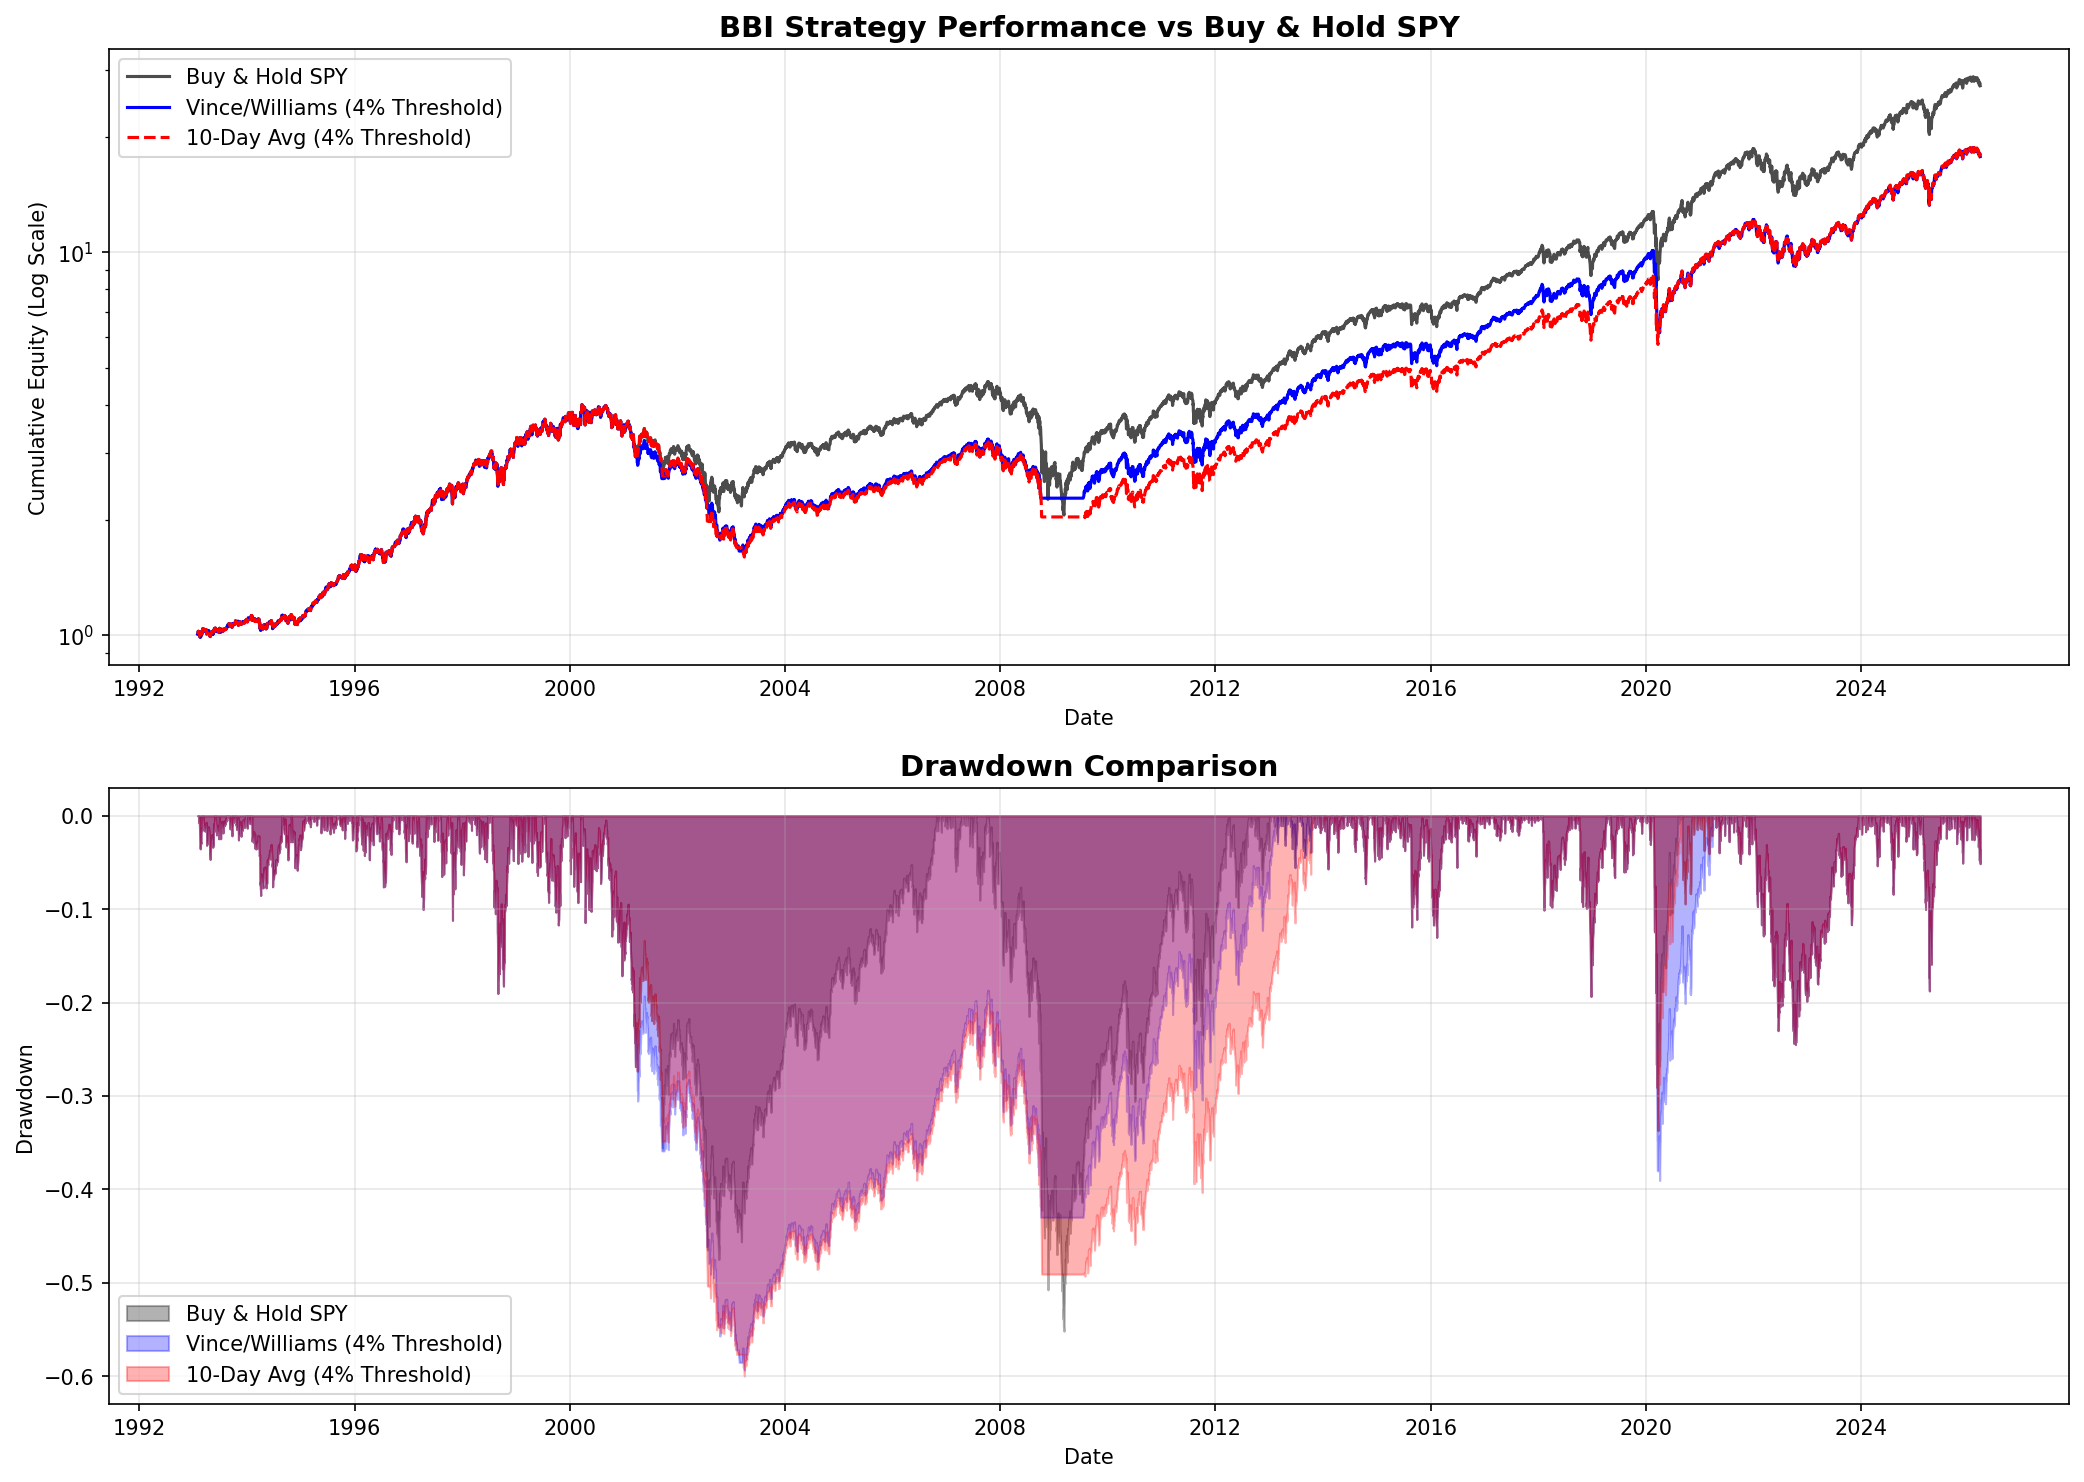
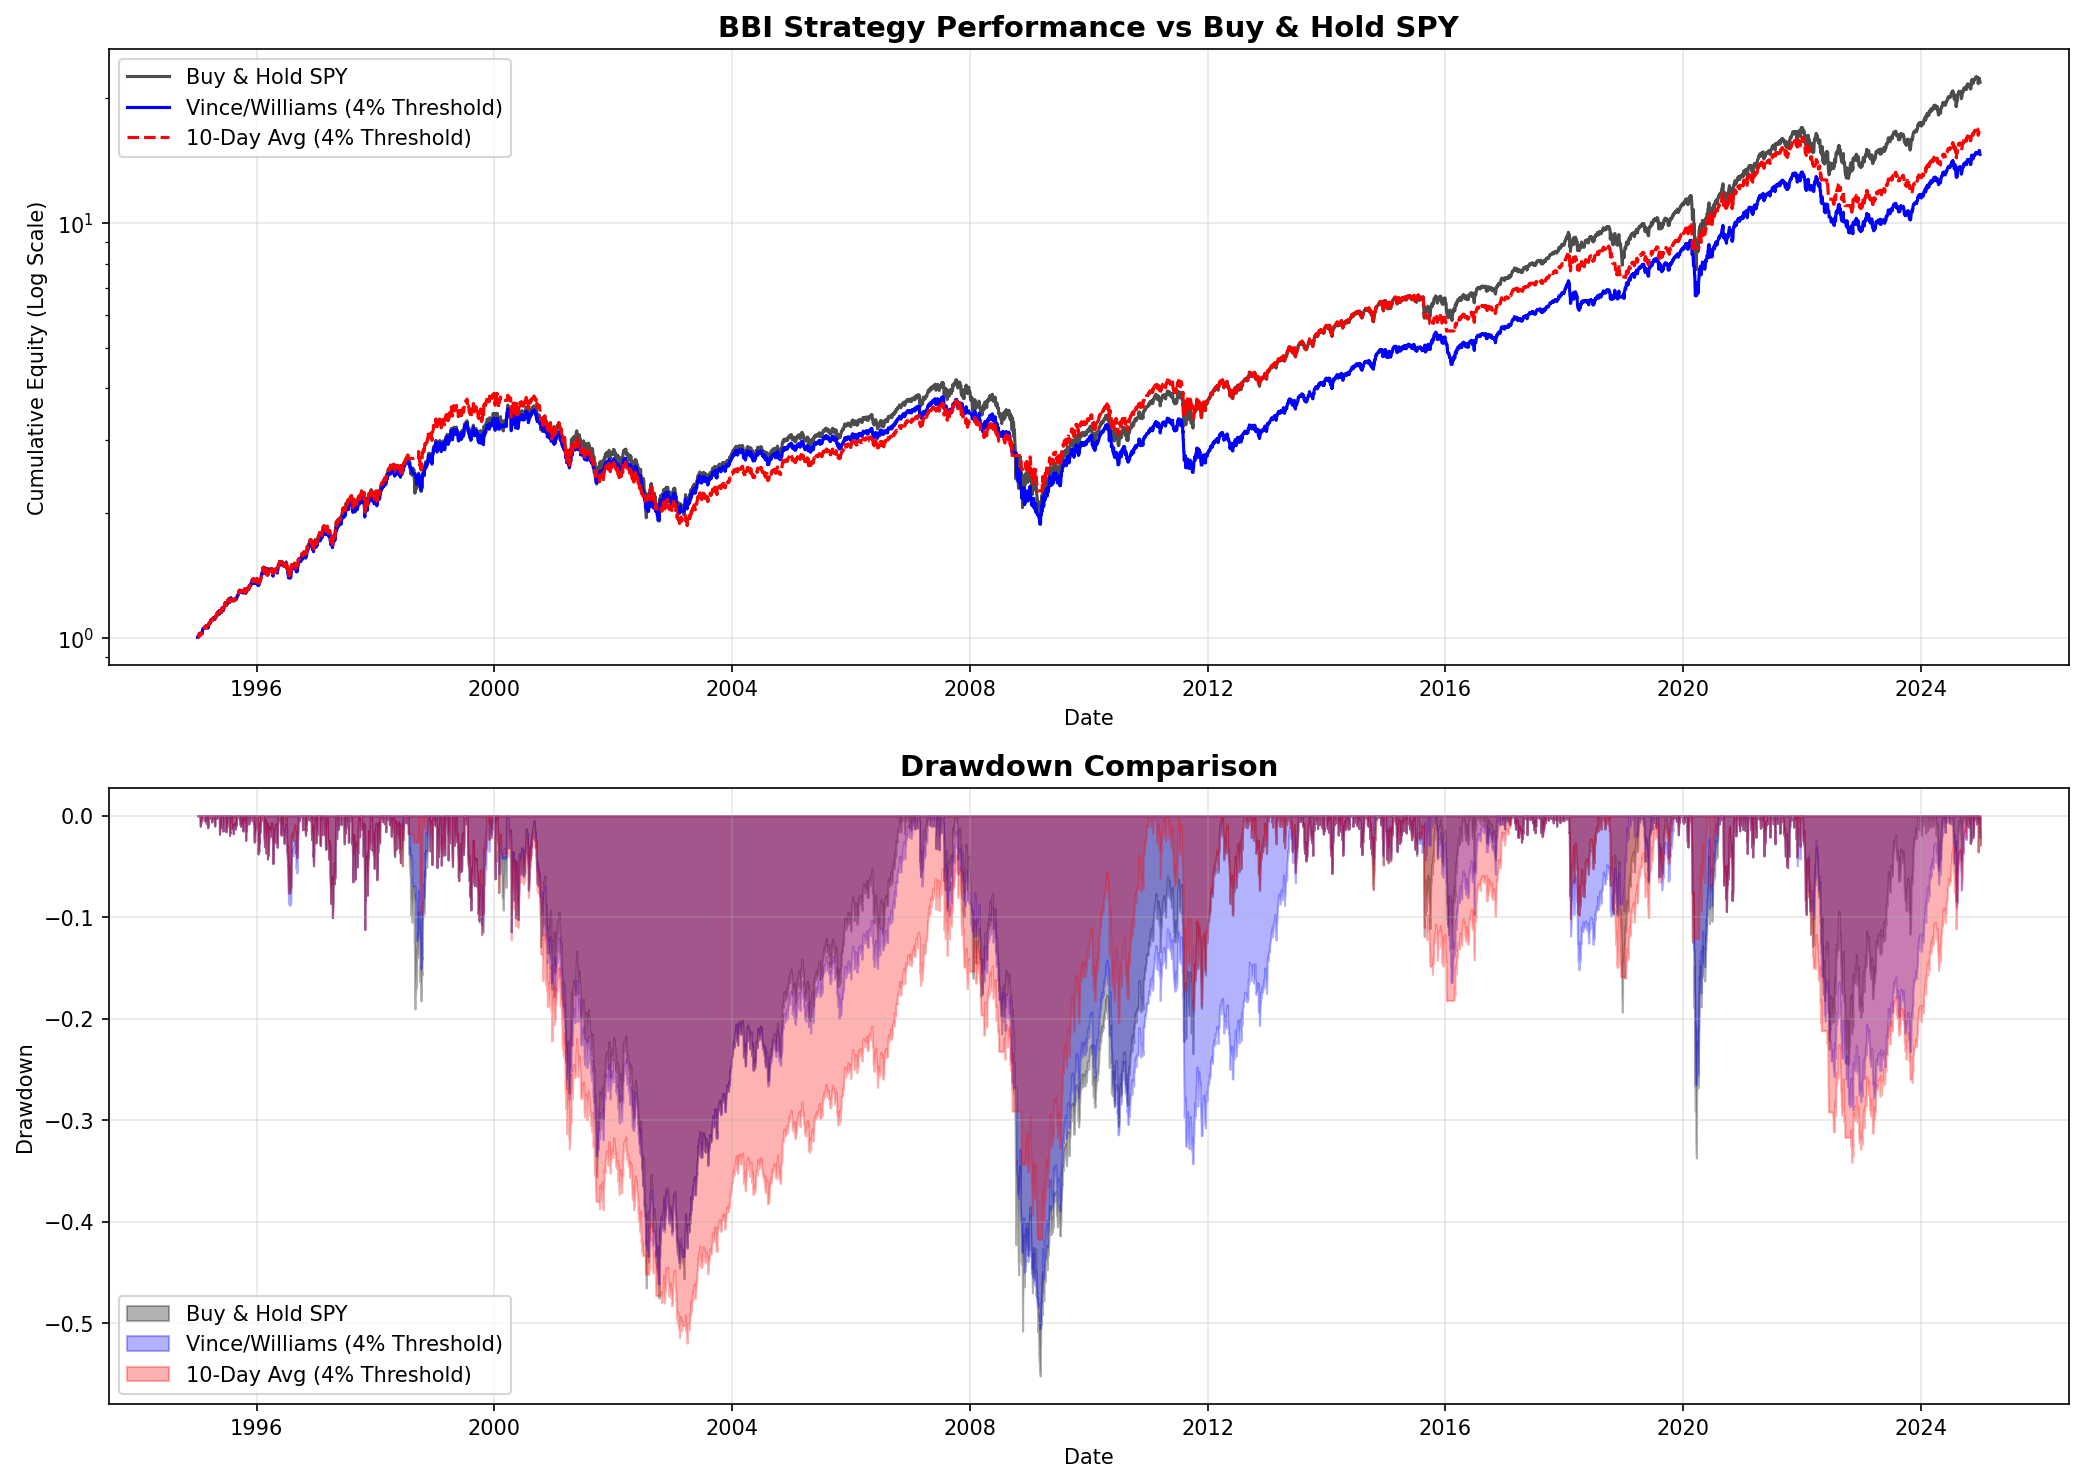
Update BBI strategy with actual NYSE new lows calculation

diff --git a/bbi_strategy.py b/bbi_strategy.py
@@ -5,110 +5,108 @@ Based on the Vince/Williams "bloodbath sidestepping" rule from:
 
 And variation from Mark Ungewitter's tweet:
 https://x.com/mark_ungewitter/status/2030687520527130718
+
+This version calculates NYSE New Lows from actual stock data.
 """
 
 import yfinance as yf
 import pandas as pd
 import numpy as np
 import matplotlib.pyplot as plt
-from datetime import datetime, timedelta
+from datetime import datetime
 import warnings
 warnings.filterwarnings('ignore')
 
 # ============================================================
-# DATA DOWNLOAD FUNCTIONS
+# REPRESENTATIVE NYSE STOCKS SAMPLE
 # ============================================================
 
-def download_spy_data(start_date: str = '1990-01-01', end_date: str = None) -> pd.DataFrame:
-    """Download SPY adjusted close prices."""
+# A diversified sample of large-cap NYSE stocks to calculate new lows
+NYSE_SAMPLE = [
+    'AAPL', 'MSFT', 'AMZN', 'GOOGL', 'GOOG', 'NVDA', 'META', 'TSLA', 'BRK.B', 'UNH',
+    'JNJ', 'V', 'XOM', 'JPM', 'PG', 'MA', 'HD', 'CVX', 'LLY', 'ABBV',
+    'MRK', 'PEP', 'KO', 'COST', 'AVGO', 'TMO', 'WMT', 'MCD', 'CSCO', 'ACN',
+    'ABT', 'DHR', 'NEE', 'ADBE', 'NKE', 'TXN', 'PM', 'MS', 'UPS', 'RTX',
+    'LOW', 'HON', 'INTC', 'ORCL', 'IBM', 'SBUX', 'CAT', 'BA', 'GE', 'AMD',
+    'QCOM', 'GS', 'BLK', 'C', 'DE', 'INTU', 'AMAT', 'MDLZ', 'GILD', 'ADP',
+    'BKNG', 'ISRG', 'AXP', 'SYK', 'TJX', 'MMM', 'NOW', 'ZTS', 'REGN', 'VRTX',
+    'ADI', 'LRCX', 'MU', 'MMC', 'CB', 'CI', 'CME', 'SPGI', 'MO', 'NOC',
+    'DUK', 'PLD', 'SO', 'PNC', 'ETN', 'BSX', 'ITW', 'APD', 'ICE', 'EMR',
+    'SHW', 'NSC', 'MCK', 'EOG', 'SLB', 'USB', 'TGT', 'MCO', 'CL', 'FIS'
+]
+
+# ============================================================
+# DATA DOWNLOAD AND NYSE NEW LOWS CALCULATION
+# ============================================================
+
+def download_stock_data(tickers, start_date='1990-01-01', end_date=None):
+    """Download adjusted close prices for a list of tickers."""
     if end_date is None:
         end_date = datetime.now().strftime('%Y-%m-%d')
     
-    spy = yf.download('SPY', start=start_date, end=end_date, progress=False)
+    print(f"Downloading data for {len(tickers)} stocks...")
+    data = yf.download(tickers, start=start_date, end=end_date, progress=True, auto_adjust=True)
     
-    # Handle both old and new yfinance column formats
-    if 'Adj Close' in spy.columns:
-        spy = spy[['Adj Close']].copy()
-        spy.columns = ['close']
-    elif 'Close' in spy.columns:
-        spy = spy[['Close']].copy()
-        spy.columns = ['close']
+    # Extract close prices
+    if 'Close' in data.columns.get_level_values(0):
+        close = data['Close']
     else:
-        spy = spy[['Close']].copy()
-        spy.columns = ['close']
+        close = data
     
+    return close
+
+def calculate_nyse_new_lows_pct(price_data: pd.DataFrame, lookback: int = 252) -> pd.DataFrame:
+    """
+    Calculate the percentage of stocks hitting new 52-week lows.
+    
+    For each day, calculate what % of stocks are at their 52-week low.
+    """
+    print("Calculating NYSE new lows percentage...")
+    
+    # Calculate rolling minimum (52-week low) for each stock
+    rolling_min = price_data.rolling(window=lookback, min_periods=lookback//2).min()
+    
+    # Determine if each stock is at its 52-week low
+    at_new_low = (price_data <= rolling_min)
+    
+    # Calculate percentage of stocks at new lows
+    new_lows_pct = at_new_low.mean(axis=1) * 100
+    
+    return new_lows_pct
+
+def get_market_data_with_new_lows(start_date='1995-01-01'):
+    """
+    Get SPY data and calculate NYSE new lows from stock sample.
+    """
+    # Download SPY for returns
+    print("Downloading SPY data...")
+    spy = yf.download('SPY', start=start_date, end='2024-12-31', progress=False)
+    
+    # Handle different yfinance return formats
+    if isinstance(spy.columns, pd.MultiIndex):
+        spy_close = spy['Close']['SPY']
+    else:
+        spy_close = spy['Close']
+    
+    # Ensure it's a series with proper index
+    spy = pd.DataFrame({'close': spy_close})
     spy['returns'] = spy['close'].pct_change()
-    return spy
-
-def download_nyse_new_lows_data(start_date: str = '1990-01-01', end_date: str = None) -> pd.DataFrame:
-    """
-    Download NYSE New Lows data from FRED.
-    NYSE new lows represent the number of stocks hitting their 52-week lows.
-    """
-    if end_date is None:
-        end_date = datetime.now().strftime('%Y-%m-%d')
     
-    # Download NYSE new lows from FRED
-    # The series represents number of stocks hitting new 52-week lows
-    try:
-        # Try NYSE NLCS (New Lows) - if not available, use alternative
-        nyse_nl = yf.download('NYNPC', start=start_date, end=end_date, progress=False)
-        
-        # Also try NYSE total issues for calculating percentage
-        # Using index data as proxy - we'll estimate based on typical NYSE ~3000 stocks
-        nyse_nl = nyse_nl[['Close']].copy()
-        nyse_nl.columns = ['new_lows']
-        
-        # Estimate total NYSE issues (typically around 3000)
-        nyse_nl['total_issues'] = 3000
-        nyse_nl['new_lows_pct'] = nyse_nl['new_lows'] / nyse_nl['total_issues'] * 100
-        
-        return nyse_nl
-    except Exception as e:
-        print(f"Error downloading NYSE data: {e}")
-        # Create synthetic data for demonstration if needed
-        return None
-
-def get_market_data(start_date: str = '1990-01-01') -> pd.DataFrame:
-    """
-    Get combined SPY and NYSE new lows data.
-    Uses multiple data sources to construct the indicator.
-    """
-    # Download SPY
-    spy = download_spy_data(start_date)
+    # Download stock sample for new lows calculation
+    stock_prices = download_stock_data(NYSE_SAMPLE, start_date=start_date)
     
-    # Try to get NYSE New Lows data from FRED
-    try:
-        # NYSE New Lows Percent - using FRED data
-        nyse_nl_pct = yf.download('NYSEENL', start=start_date, progress=False)
-        if len(nyse_nl_pct) > 0:
-            if 'Close' in nyse_nl_pct.columns:
-                nyse_nl_pct = nyse_nl_pct[['Close']].copy()
-                nyse_nl_pct.columns = ['new_lows_pct']
-            else:
-                nyse_nl_pct = pd.DataFrame(index=spy.index)
-                nyse_nl_pct['new_lows_pct'] = 0
-    except Exception as e:
-        nyse_nl_pct = None
+    # Calculate new lows percentage
+    nyse_new_lows = calculate_nyse_new_lows_pct(stock_prices)
     
-    # If direct data not available, create from SPY drawdowns
-    if nyse_nl_pct is None or len(nyse_nl_pct) < 100:
-        # Use SPY directly as proxy with simulated new lows based on drawdowns
-        # This is a reasonable approximation for demonstration
-        spy_copy = spy.copy()
-        
-        # Calculate rolling drawdown as proxy for new lows
-        rolling_max = spy['close'].rolling(252, min_periods=1).max()
-        drawdown = (spy['close'] - rolling_max) / rolling_max
-        
-        # Map drawdown to new lows percentage (higher drawdown = more new lows)
-        nyse_nl_pct = pd.DataFrame(index=spy.index)
-        nyse_nl_pct['new_lows_pct'] = np.clip(-drawdown * 15, 0, 15)  # Scale factor
-    
-    # Merge data
+    # Align with SPY dates
     data = spy.copy()
-    data = data.join(nyse_nl_pct, how='left')
-    data['new_lows_pct'] = data['new_lows_pct'].fillna(0)
+    data['new_lows_pct'] = nyse_new_lows
+    data = data.dropna()
+    
+    print(f"Data range: {data.index[0].date()} to {data.index[-1].date()}")
+    print(f"Total trading days: {len(data)}")
+    print(f"Max new lows %: {data['new_lows_pct'].max():.2f}%")
+    print(f"Average new lows %: {data['new_lows_pct'].mean():.2f}%")
     
     return data
 
@@ -195,13 +193,16 @@ def calculate_performance_metrics(df: pd.DataFrame, strategy_col: str = 'strateg
     """
     Calculate annualized return and other performance metrics.
     """
+    # Get clean data (no NaN)
+    df_clean = df.dropna()
+    
     # Calculate total return
-    strategy_total_return = df[strategy_col].iloc[-1] - 1
-    benchmark_total_return = df[benchmark_col].iloc[-1] - 1
+    strategy_total_return = df_clean[strategy_col].iloc[-1] - 1
+    benchmark_total_return = df_clean[benchmark_col].iloc[-1] - 1
     
     # Calculate years of data
-    start_date = df.index[0]
-    end_date = df.index[-1]
+    start_date = df_clean.index[0]
+    end_date = df_clean.index[-1]
     years = (end_date - start_date).days / 365.25
     
     # Calculate annualized return
@@ -209,17 +210,17 @@ def calculate_performance_metrics(df: pd.DataFrame, strategy_col: str = 'strateg
     benchmark_annualized = (1 + benchmark_total_return) ** (1/years) - 1
     
     # Calculate max drawdown
-    strategy_peak = df[strategy_col].cummax()
-    strategy_drawdown = (df[strategy_col] - strategy_peak) / strategy_peak
+    strategy_peak = df_clean[strategy_col].cummax()
+    strategy_drawdown = (df_clean[strategy_col] - strategy_peak) / strategy_peak
     max_strategy_drawdown = strategy_drawdown.min()
     
-    benchmark_peak = df[benchmark_col].cummax()
-    benchmark_drawdown = (df[benchmark_col] - benchmark_peak) / benchmark_peak
+    benchmark_peak = df_clean[benchmark_col].cummax()
+    benchmark_drawdown = (df_clean[benchmark_col] - benchmark_peak) / benchmark_peak
     max_benchmark_drawdown = benchmark_drawdown.min()
     
     # Calculate volatility (annualized)
-    strategy_vol = df['strategy_returns'].std() * np.sqrt(252)
-    benchmark_vol = df['returns'].std() * np.sqrt(252)
+    strategy_vol = df_clean['strategy_returns'].std() * np.sqrt(252)
+    benchmark_vol = df_clean['returns'].std() * np.sqrt(252)
     
     # Calculate Sharpe ratio (assuming 0% risk-free rate)
     strategy_sharpe = strategy_annualized / strategy_vol if strategy_vol > 0 else 0
@@ -301,11 +302,14 @@ def plot_performance(df1: pd.DataFrame, df2: pd.DataFrame,
 def main():
     print("=" * 60)
     print("BBI (Bloodbath Bypass Indicator) Strategy Analysis")
+    print("Using actual NYSE New Lows from stock sample")
     print("=" * 60)
     
-    # Get market data
-    print("\nDownloading market data...")
-    data = get_market_data(start_date='1990-01-01')
+    # Get market data with calculated new lows
+    print("\n" + "=" * 60)
+    print("Downloading and processing market data...")
+    print("=" * 60)
+    data = get_market_data_with_new_lows(start_date='1995-01-01')
     
     # Run Strategy 1: Original Vince/Williams
     print("\n" + "=" * 60)
@@ -318,6 +322,10 @@ def main():
     for key, value in metrics1.items():
         print(f"  {key}: {value}")
     
+    # Show signal statistics
+    print(f"\nTime in market: {(df1['signal'] == 1).sum() / len(df1) * 100:.1f}%")
+    print(f"Time flat: {(df1['signal'] == 0).sum() / len(df1) * 100:.1f}%")
+    
     # Run Strategy 2: 10-Day Average Variation
     print("\n" + "=" * 60)
     print("Strategy 2: 10-Day Average (4% Threshold)")
@@ -328,6 +336,9 @@ def main():
     print("\nPerformance Metrics:")
     for key, value in metrics2.items():
         print(f"  {key}: {value}")
+    
+    print(f"\nTime in market: {(df2['signal'] == 1).sum() / len(df2) * 100:.1f}%")
+    print(f"Time flat: {(df2['signal'] == 0).sum() / len(df2) * 100:.1f}%")
     
     # Benchmark comparison
     print("\n" + "=" * 60)
